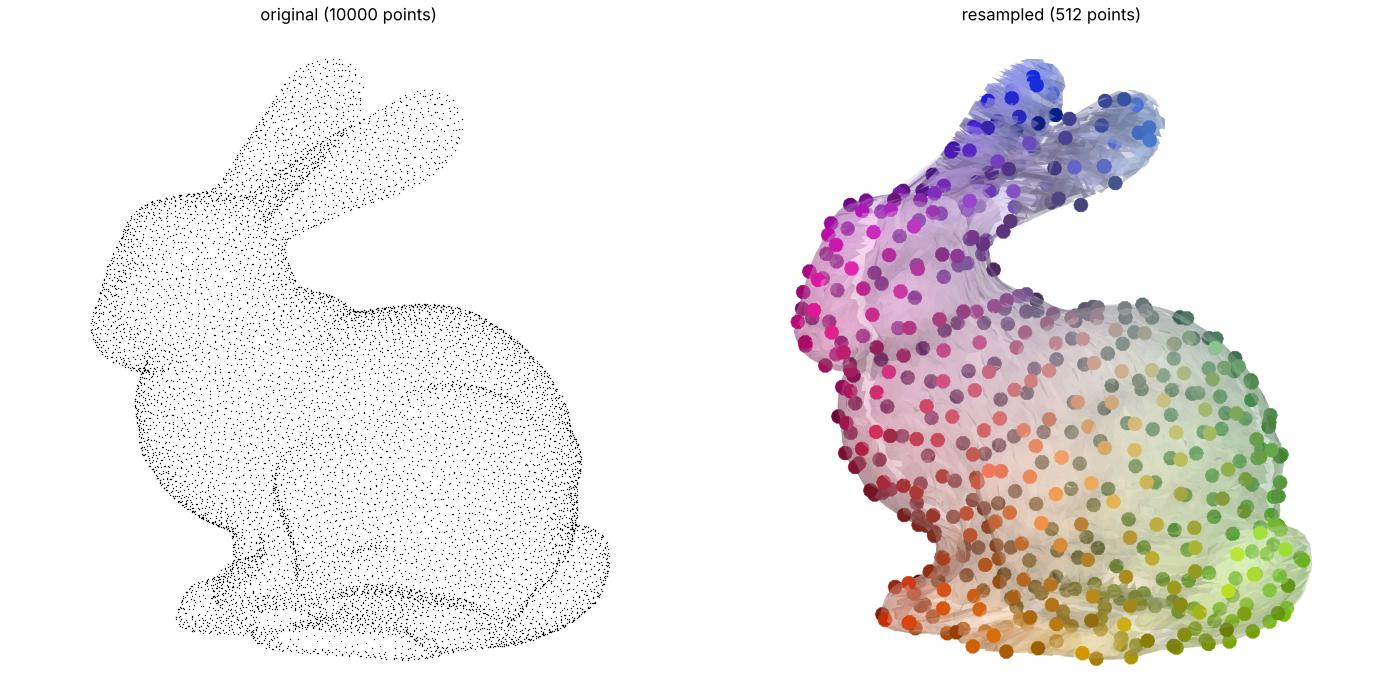
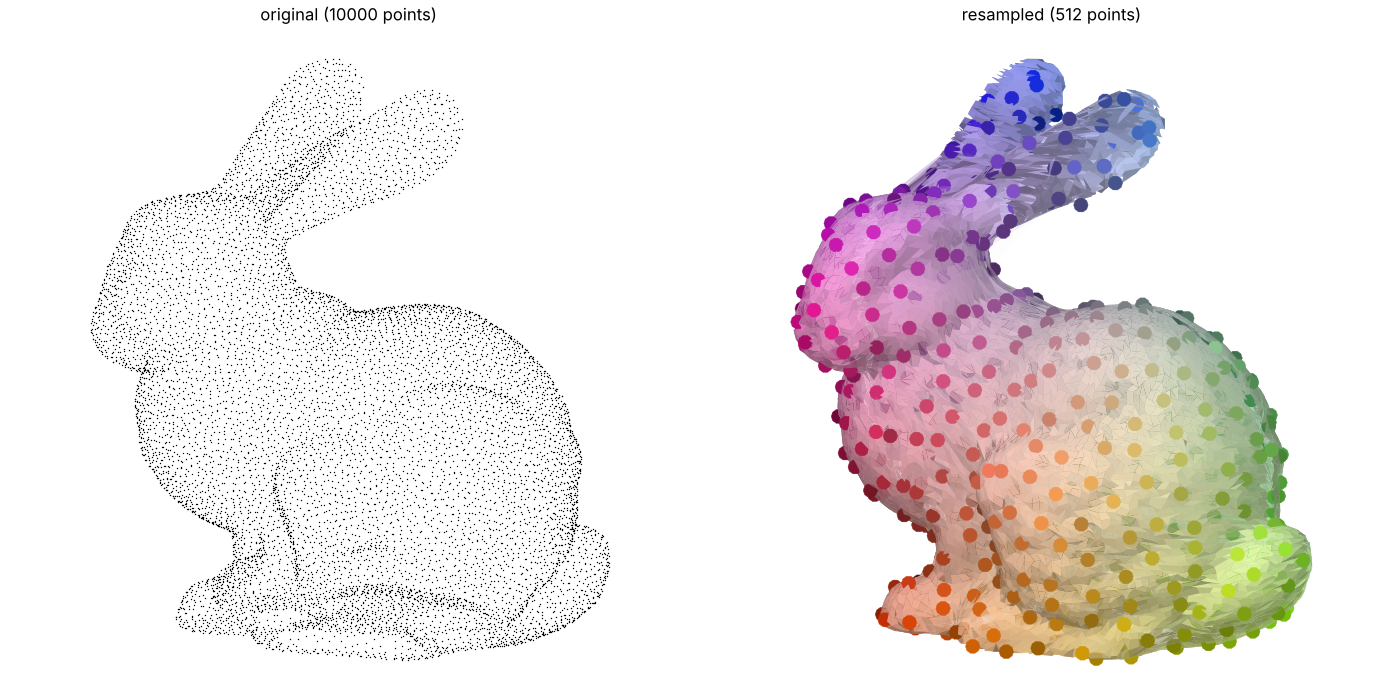
reduce transparency of the mesh in viz.py

Changed region(s): [[0.5529, 0.09, 0.9521, 0.96], [0.7986, 0.12, 0.8293, 0.15]]

diff --git a/src/flatpoints/viz.py b/src/flatpoints/viz.py
@@ -67,7 +67,8 @@ def plot_resampler(sampler, ax=None, point_size=1.0, light=0.45, radius=None):
         radius = 0.19 * point_size * np.sqrt(surface_area(flat.points) / len(points))
     layers = []
     for f, g in enumerate(sampled_grids(flat, st).values()):
-        quads, shade = quad_layer(g["xyz"] @ proj.T, g["rgb"], g["alpha"], light)
+        # opaque mesh (hides the points behind it), see-through only across the seams
+        quads, shade = quad_layer(g["xyz"] @ proj.T, g["rgb"], g["alpha"] / ALPHA_MAX, light)
         layers.append(quads)
         mine = points[sampler.faces == f]
         if len(mine):  # shade of a point: the one of the nearest quad
